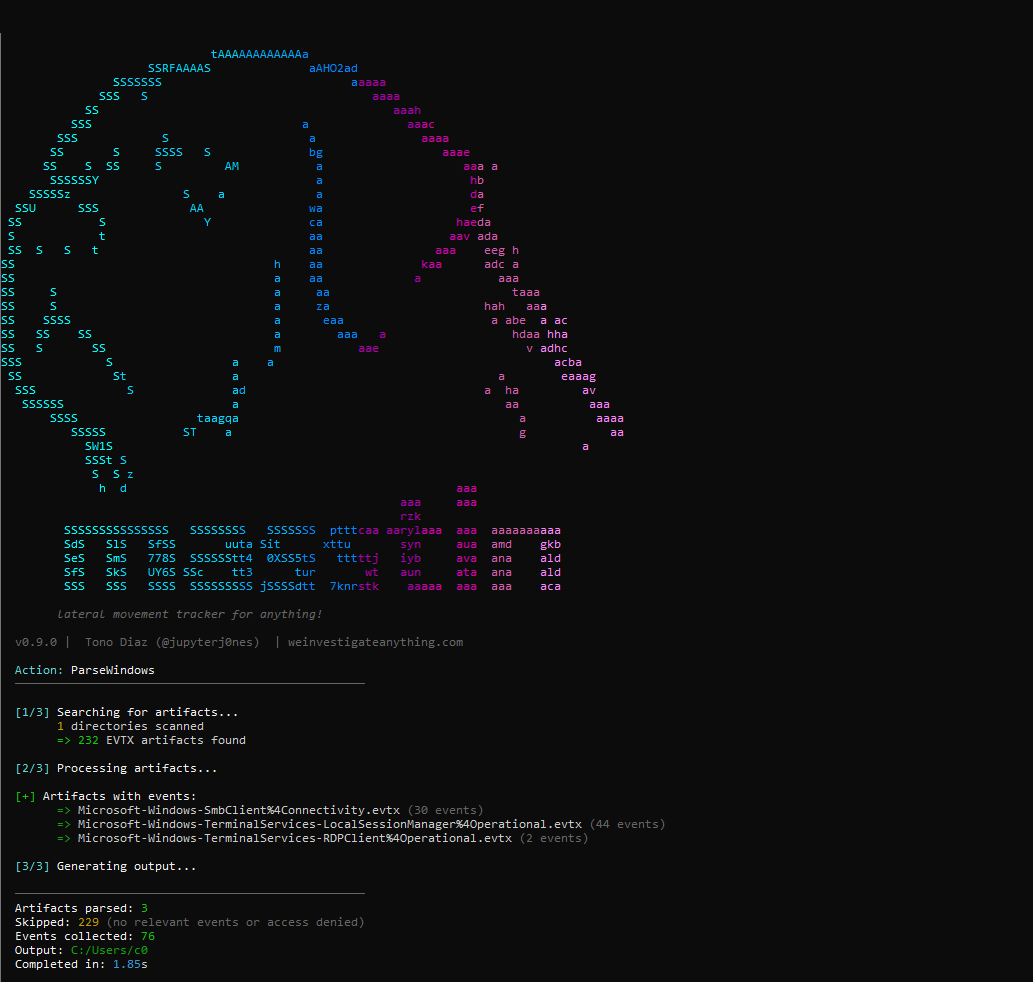
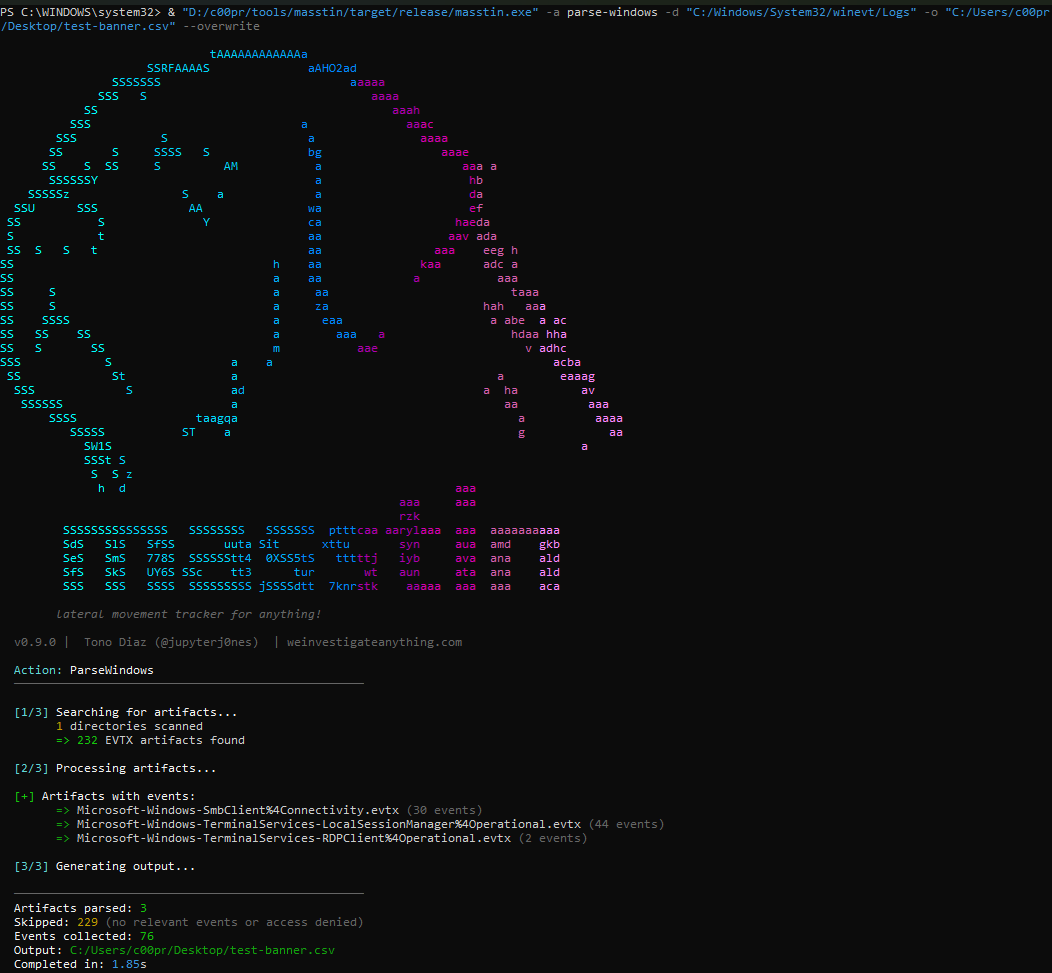
Update CLI screenshot and add output explanation

diff --git a/README.md b/README.md
@@ -132,6 +132,8 @@ masstin -a parse-windows -d /evidence/ -o timeline.csv \
   <img src="resources/masstin_cli_output.png" alt="Masstin CLI output — parse-windows"/>
 </div>
 
+The output shows three phases: **[1/3]** scans directories and compressed packages to discover EVTX artifacts, **[2/3]** processes each artifact and shows progress, then lists every source that produced events with its count, and **[3/3]** generates the sorted CSV timeline. The final summary shows how many artifacts were parsed, how many were skipped (no relevant events or access denied), total events collected, and execution time. Use `--silent` to suppress all output for automation.
+
 ### Parse Linux logs
 
 Parses Linux system logs and accounting entries (`secure`, `messages`, `audit.log`, `utmp`, `wtmp`, `btmp`, `lastlog`) to extract SSH sessions and authentication events.
